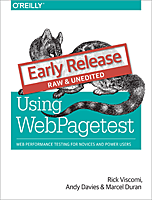
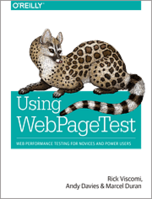
Updated details for Using WebPageTest in the tips dialog

diff --git a/www/tips_data/book.html b/www/tips_data/book.html
@@ -1,1 +1,2 @@
-<a href="http://shop.oreilly.com/product/0636920033592.do?sortby=publicationDate" target="_blank"><img style="float:left; padding-right:1em;" src="/tips_data/book.png"></a> O'Reilly is publishing a "<a href="http://shop.oreilly.com/product/0636920033592.do?sortby=publicationDate" target="_blank">Using Webpagetest</a>" book that is authored by some long-time users of the tool.  You can get <a href="http://shop.oreilly.com/product/0636920033592.do?sortby=publicationDate" target="_blank">early access</a> to the content as it is written.
+<a href="http://shop.oreilly.com/product/0636920033592.do" target="_blank"><img style="float:left; padding-right:1em;" src="/tips_data/book.png"></a> O'Reilly has published "<a href="http://shop.oreilly.com/product/0636920033592.do" target="_blank">Using WebPageTest</a>"<br><br>Written by some long-time users of WebPageTest, it begins with the basics of running tests and interpreting the results, before moving on to using the API and installing your own private instance.<br><br>The full list of contents is available from <a href="http://shop.oreilly.com/product/0636920033592.do">O'Reilly</a>
+
